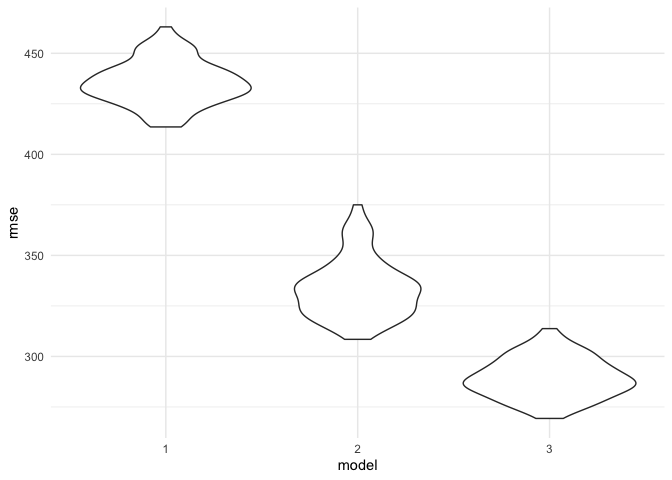
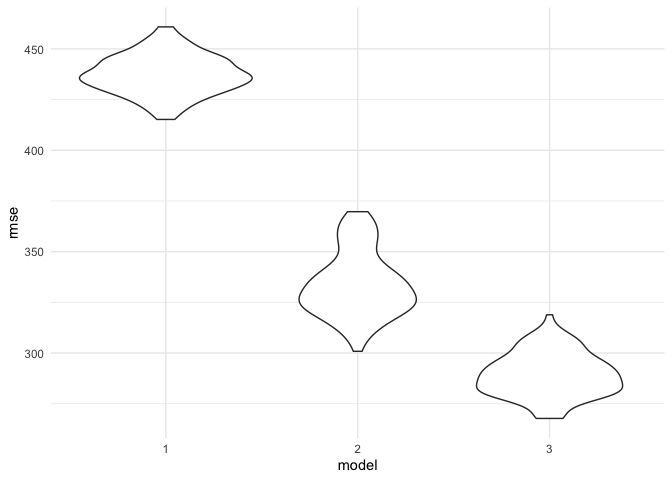
Added comments and descriptions

diff --git a/p8105_hw6_xy2396.md b/p8105_hw6_xy2396.md
@@ -17,16 +17,7 @@ birthweight <-
     mrace = as.factor(mrace),
     malform = as.factor(malform)
   )
-```
 
-    ## Parsed with column specification:
-    ## cols(
-    ##   .default = col_double()
-    ## )
-
-    ## See spec(...) for full column specifications.
-
-``` r
 #check missing data
 apply(is.na(birthweight),2,sum)
 ```
@@ -54,9 +45,50 @@ bivariate = function(x) {
 
 bivariate_result <-
   birthweight %>% 
+  select(-bwt) %>% 
   map_dfr(~bivariate(.), .id = "source")
+bivariate_result %>% knitr::kable()
+```
 
-#fit model1 with selected vairables
+| source   | term |     estimate | p.value |
+| :------- | :--- | -----------: | ------: |
+| babysex  | x2   |  \-88.770460 |  0.0000 |
+| bhead    | x    |   236.109040 |  0.0000 |
+| blength  | x    |   139.810857 |  0.0000 |
+| delwt    | x    |     6.639270 |  0.0000 |
+| fincome  | x    |     3.047636 |  0.0000 |
+| frace    | x2   | \-313.731272 |  0.0000 |
+| frace    | x3   | \-105.796432 |  0.1470 |
+| frace    | x4   | \-203.898466 |  0.0000 |
+| frace    | x8   |  \-88.535563 |  0.4999 |
+| gaweeks  | x    |    66.919907 |  0.0000 |
+| malform  | x1   |    11.636238 |  0.9300 |
+| menarche | x    |   \-8.465482 |  0.1076 |
+| mheight  | x    |    37.048355 |  0.0000 |
+| momage   | x    |    17.931595 |  0.0000 |
+| mrace    | x2   | \-316.563781 |  0.0000 |
+| mrace    | x3   | \-126.430227 |  0.0932 |
+| mrace    | x4   | \-211.321222 |  0.0000 |
+| parity   | x    |  \-41.673900 |  0.5812 |
+| ppbmi    | x    |    15.120374 |  0.0000 |
+| ppwt     | x    |     4.645982 |  0.0000 |
+| smoken   | x    |   \-5.228867 |  0.0000 |
+| wtgain   | x    |    11.570313 |  0.0000 |
+
+After cleaning the data a quick glance on the bivariate relationship
+between outcome birthweight and each variable was taken. Variables that
+were not significant at alpha = 0.01 level would be excluded from
+candicdate variables for model 1; variables that do not hold a temporal
+relationship with the outcome (e.g. baby body length, head circumstance)
+were not included; for variables that are potentially have a high
+co-linearity, one of them would be selected (e.g. selected BMI but
+excluded mother’s weight and height; selected mother’s race and excluded
+father’s). The final model 1 are shown below, with variables baby’s sex,
+gestational age, mother’s age, mother’s race, mother’s pre-delivery BMI,
+and mother’s weight gain.
+
+``` r
+#fit model 1 with selected vairables
 model1 <- lm(bwt ~ babysex + gaweeks + momage + mrace + ppbmi + wtgain, data = birthweight) 
 model1 %>% 
   broom::tidy() %>% 
@@ -80,8 +112,6 @@ model1 %>%
 | ppbmi       |    19.11 |   0.000 |
 | wtgain      |     9.68 |   0.000 |
 
-Describe modeling process…
-
 Plot residuals against fitted value
 
 ``` r
@@ -92,7 +122,7 @@ modelr::add_predictions(model1) %>%
   geom_point(alpha = 0.3)
 ```
 
-![](p8105_hw6_xy2396_files/figure-gfm/unnamed-chunk-3-1.png)<!-- -->
+![](p8105_hw6_xy2396_files/figure-gfm/unnamed-chunk-4-1.png)<!-- -->
 
 The residual vs. predicted value is relatively shapeless without clear
 patterns in the data, and it is generally symmetrically distributed
@@ -180,7 +210,7 @@ cv_df %>%
   theme_minimal()
 ```
 
-![](p8105_hw6_xy2396_files/figure-gfm/unnamed-chunk-5-1.png)<!-- -->
+![](p8105_hw6_xy2396_files/figure-gfm/unnamed-chunk-6-1.png)<!-- -->
 
 From the violin plot we can see that the prediction error is the lowest
 with model 3 (using head circumference, length, sex, and all
@@ -219,12 +249,7 @@ boot_straps =
     strap_number = 1:5000,
     strap_sample = rerun(5000, boot_sample(temperature))
   )
-```
 
-    ## Warning: `data_frame()` is deprecated, use `tibble()`.
-    ## This warning is displayed once per session.
-
-``` r
 bootstrap_results = 
   boot_straps %>% 
   mutate(
@@ -233,7 +258,8 @@ bootstrap_results =
     overall = map(models, broom::glance)) 
 
 #log(beta0*beta1) and its 95% CI
-bootstrap_results %>% 
+log_beta <-
+  bootstrap_results %>% 
   select(-strap_sample, -models, -overall) %>% 
   unnest(cols = c(results)) %>% 
   select(strap_number, term, estimate) %>% 
@@ -242,37 +268,39 @@ bootstrap_results %>%
   mutate(log_beta = log((beta0*beta1))) %>% 
   summarise(log_95 = list(enframe(quantile(log_beta, probs = c(0.025, 0.5, 0.975))))) %>% 
   unnest() %>% 
-  rename(percentile = name) %>% 
+  rename(percentile = name)
+log_beta %>% 
   knitr::kable()
 ```
 
-    ## Warning: `cols` is now required.
-    ## Please use `cols = c(log_95)`
-
 | percentile |    value |
 | :--------- | -------: |
-| 2.5%       | 1.965101 |
-| 50%        | 2.012451 |
-| 97.5%      | 2.058097 |
+| 2.5%       | 1.965734 |
+| 50%        | 2.013786 |
+| 97.5%      | 2.057868 |
+
+The 95% confidence interval for \*\*log(beta0\*beta1)\*\* is 1.966 to
+2.058
 
 ``` r
 #r-squared and 95% CI
-bootstrap_results %>% 
+r_squared <-
+  bootstrap_results %>% 
   select(-strap_sample, -models, -results) %>% 
   unnest(cols = c(overall)) %>% 
   janitor::clean_names() %>% 
   select(r_squared) %>% 
   summarise(r_95 = list(enframe(quantile(r_squared, probs = c(0.025, 0.5, 0.975))))) %>% 
   unnest() %>% 
-  rename(percentile = name) %>% 
+  rename(percentile = name)
+r_squared %>% 
   knitr::kable()
 ```
 
-    ## Warning: `cols` is now required.
-    ## Please use `cols = c(r_95)`
-
 | percentile |     value |
 | :--------- | --------: |
-| 2.5%       | 0.8940665 |
-| 50%        | 0.9118360 |
-| 97.5%      | 0.9275368 |
+| 2.5%       | 0.8947118 |
+| 50%        | 0.9117061 |
+| 97.5%      | 0.9275321 |
+
+The 95% confidence interval for **r-squared** is 0.895 to 0.928
